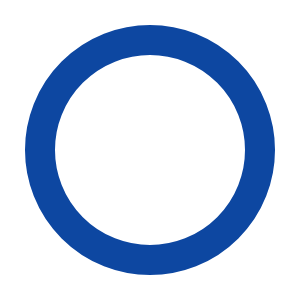
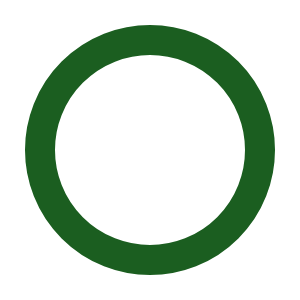
redesign

Changed region(s): [[0.06, 0.06, 0.93, 0.93]]

diff --git a/files/style/morpion.css b/files/style/morpion.css
@@ -9,13 +9,13 @@
 
 body {
   margin: 0;
-  background-color: #1976D2;
+  background-color: #388E3C;
 }
 
 .header {
   font-size: 2rem;
   color: white;
-  background: #0D47A1;
+  background: #1B5E20;
   text-align: center;
   height: 4rem;
   display: flex;
@@ -56,7 +56,7 @@ body {
 .square:hover,
 .highlight {
   transition: all .3s ease;
-  background: #64B5F6;
+  background: #81C784;
 
 }
 
@@ -67,13 +67,13 @@ body {
   border-radius: .5rem .2rem .5rem .2rem;
   font-size: 1.2rem;
   border: none;
-  color: #0D47A1;
+  color: #1B5E20;
   transition: all .3s ease;
   font-weight: bold;
 }
 #restart:hover{
-  background-color: #c3d9fc;
-  color: #0D47A1;
+  background-color: #bafcbf;
+  color: #1B5E20;
   transition: all .3s ease;
 }
 #counts{
@@ -113,7 +113,7 @@ ul li a{
   border-radius: .5rem .2rem .5rem .2rem;
 }
 .active, ul li a:hover{
-  color: #0D47A1;
+  color: #1B5E20;
   background-color: white;
 
 }

diff --git a/style/4ligne.css b/style/4ligne.css
@@ -66,7 +66,7 @@ body {
     cursor: pointer;
 }
 #tableau td:hover{
-    background-color: #bafcbf;
+    background-color: #c3d9fc;
 }
 
 #board td.player1 {
@@ -118,7 +118,7 @@ ul{
     font-weight: bold;
   }
   #restart:hover{
-    background-color: #bafcbf;
+    background-color: #c3d9fc;
     color: #1B5E20;
     transition: all .3s ease;
   }

diff --git a/index.html b/index.html
@@ -13,7 +13,7 @@
     <div class="contain">
         <img src="./files/media/logo_ispm.png" alt="">
         <a href="./files/morpion/morpion.html">Morpion</a>
-        <a href="./files/4ligne/4ligne.html">4 ligne</a>
+        <a href="./files/4ligne/4ligne.html">4 lignes</a>
         
     </div>
 </body>

diff --git a/files/morpion/morpion.html b/files/morpion/morpion.html
@@ -13,7 +13,7 @@
   <div class="header">
     <ul>
       <li><a href="" class= 'active'>Morpion</a></li>
-      <li><a href="../4ligne/4ligne.html">4 Ligne</a></li>
+      <li><a href="../4ligne/4ligne.html">4 lignes</a></li>
     </ul>
   </div>
   <div class="container">

diff --git a/files/4ligne/4ligne.html b/files/4ligne/4ligne.html
@@ -11,7 +11,7 @@
 	<div class="header">
 		<ul>
 			<li><a href="../morpion/morpion.html">Morpion</a></li>
-			<li><a href="" class='active'>4 Ligne</a></li>
+			<li><a href="" class='active'>4 lignes</a></li>
 		</ul>
 	</div>
 	<div class="container">

diff --git a/files/script/morpion.js b/files/script/morpion.js
@@ -131,7 +131,7 @@ const getSquareElementNodes = () => {
   }
   return nodes;
 }
-
+//anim
 const highlightSquares = (blinks) => {
   if (blinks === undefined) {
     blinks = 5;
